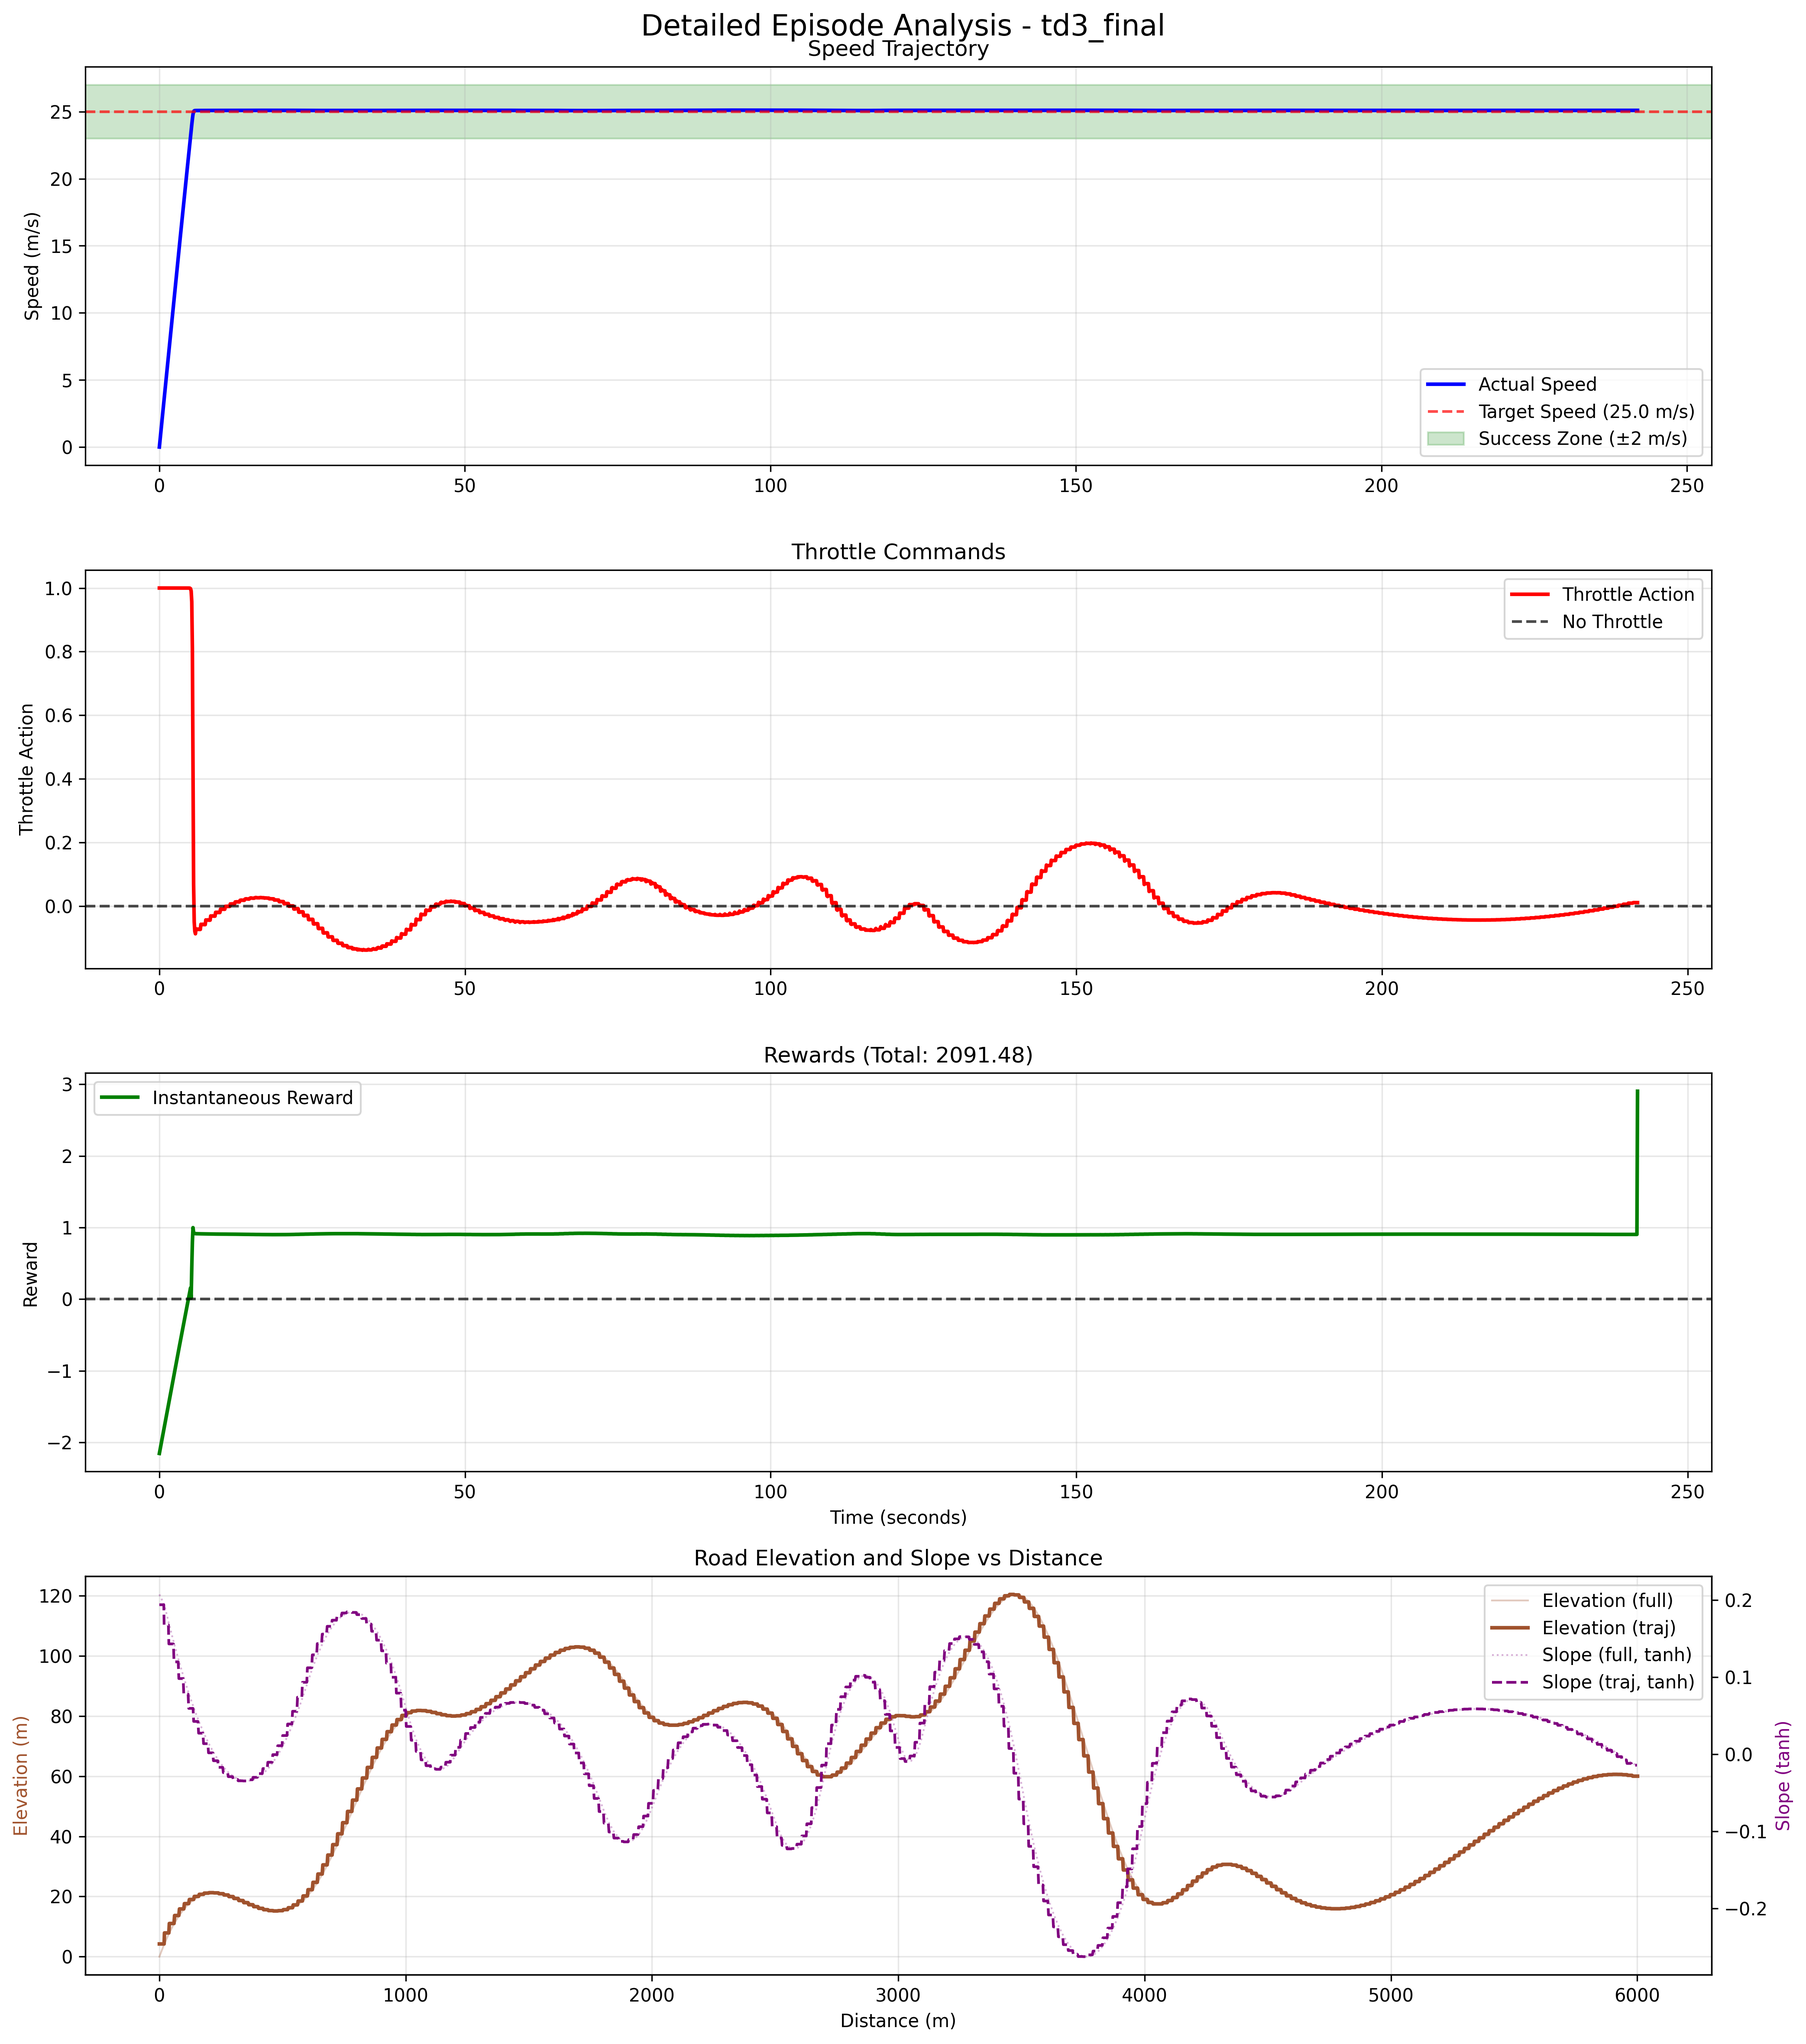
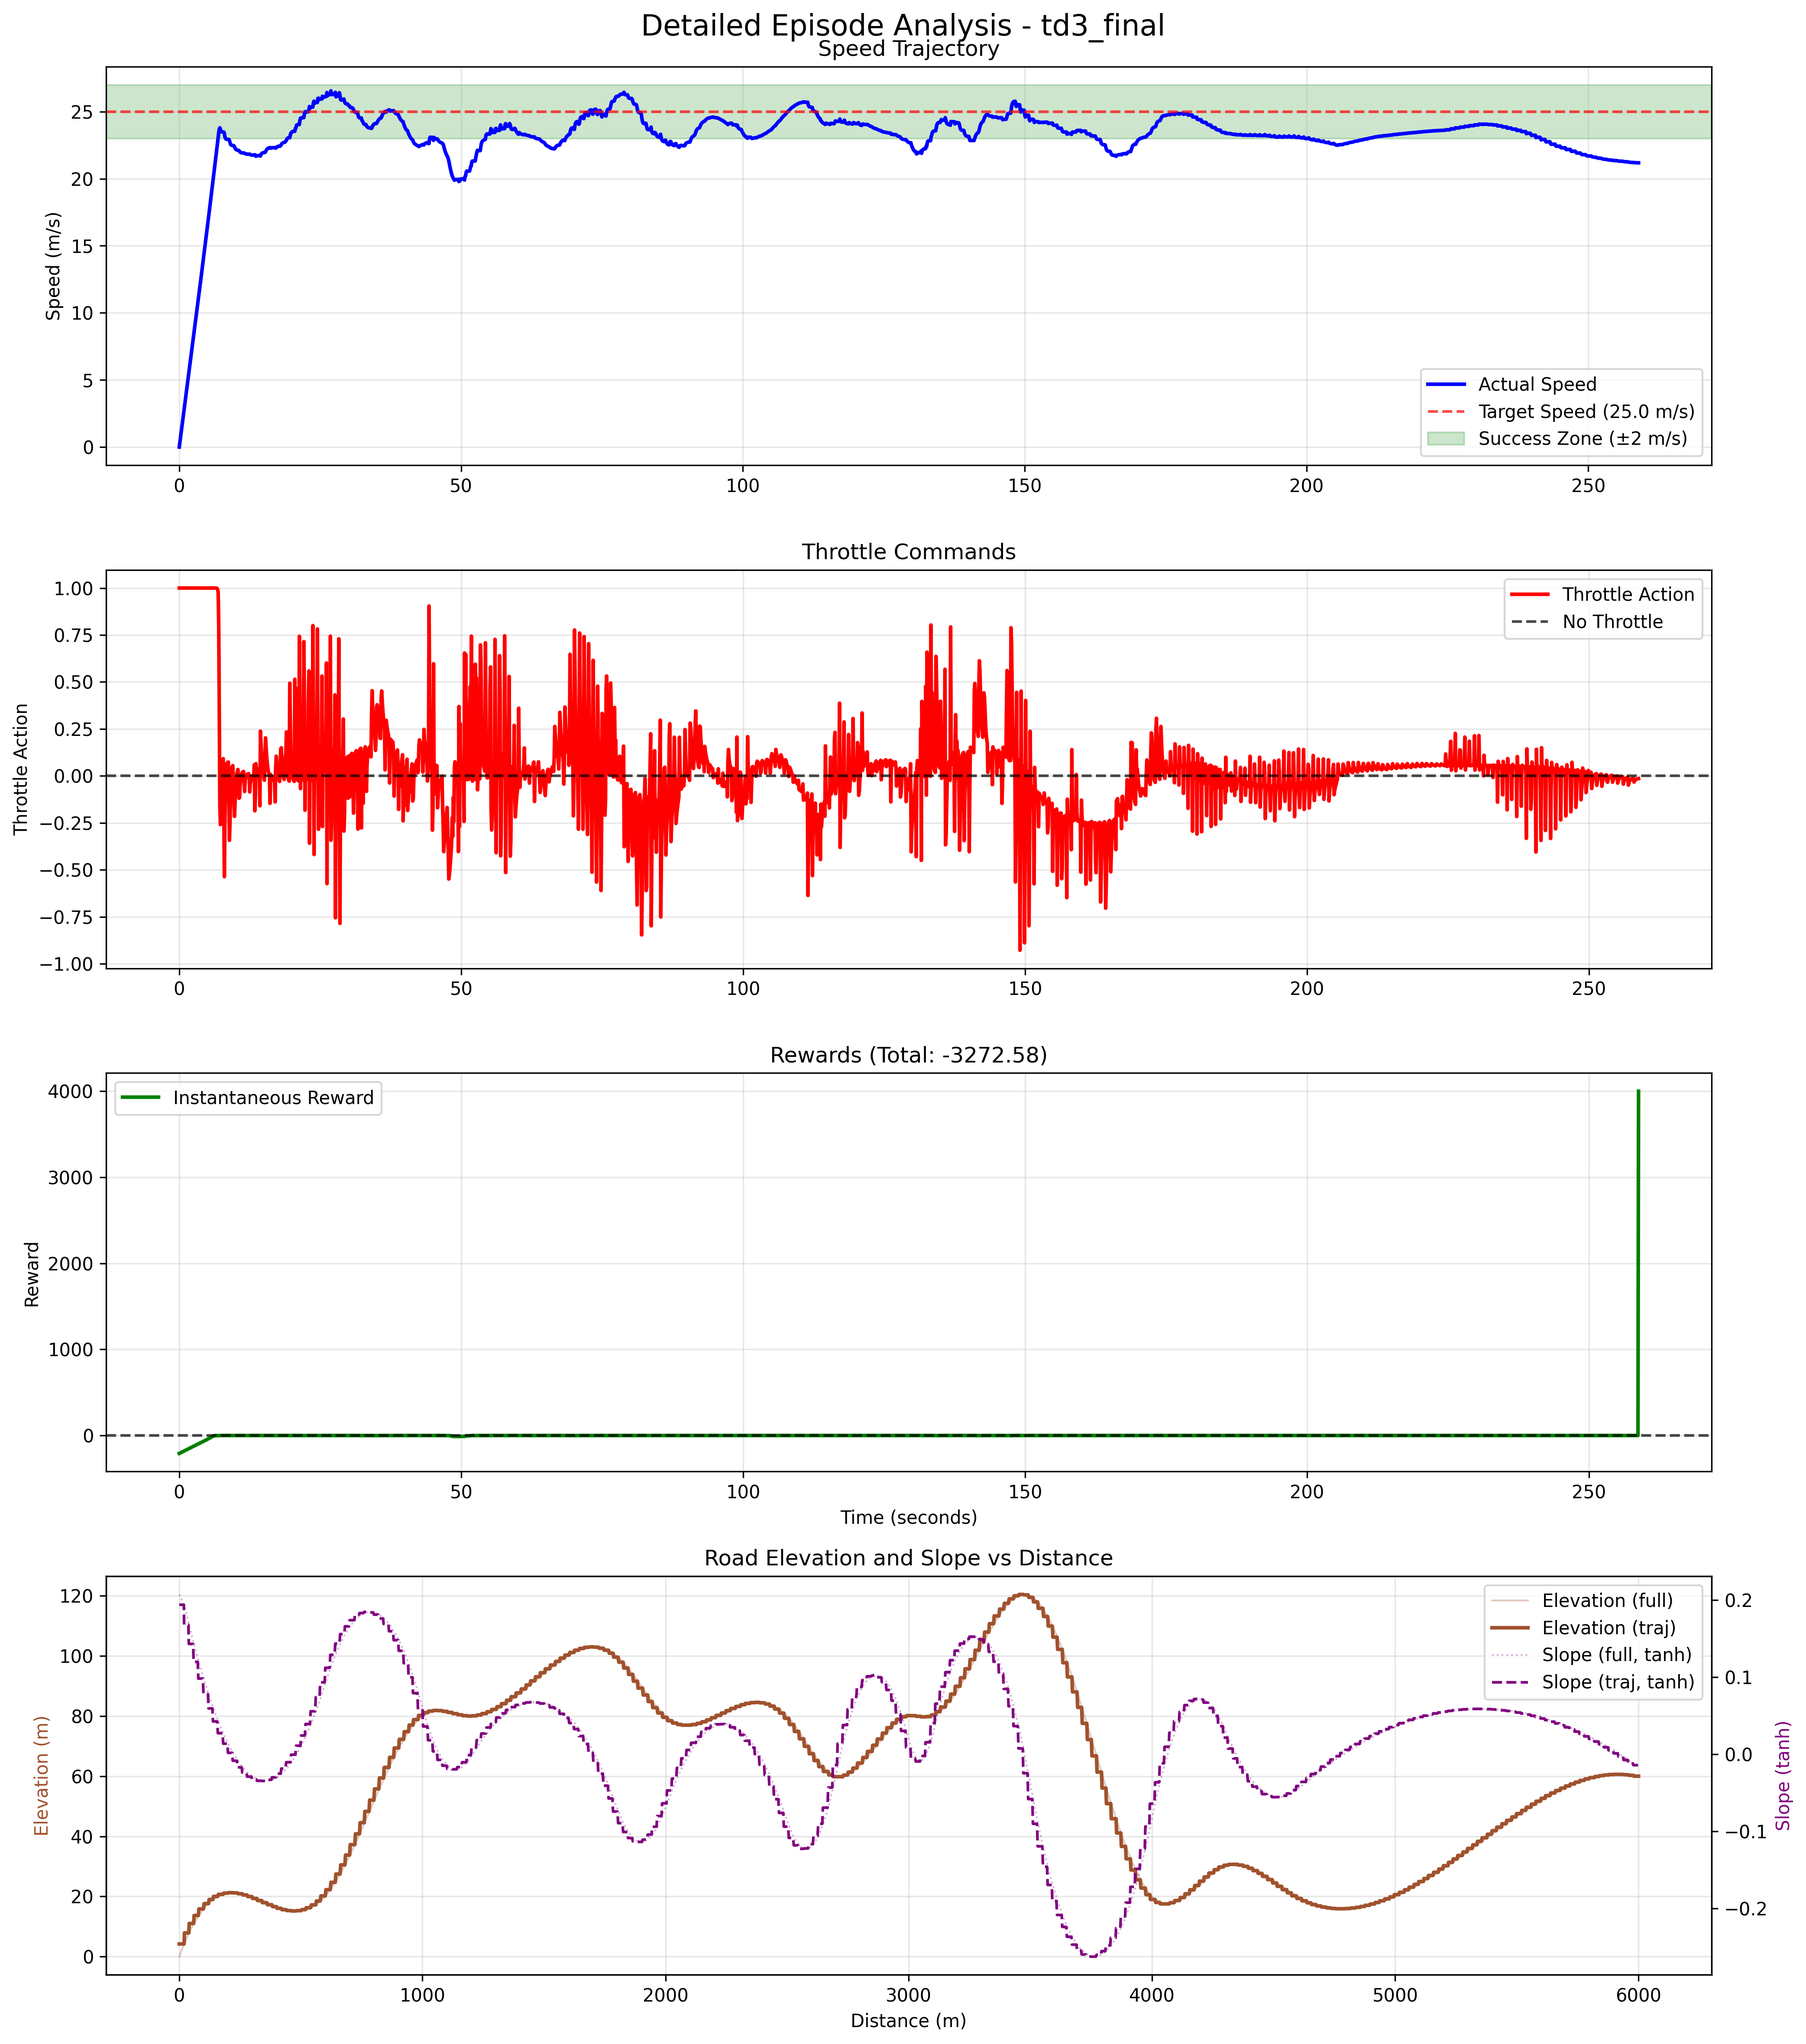
pretty good

diff --git a/car_env.py b/car_env.py
@@ -55,10 +55,16 @@ class CarThrottleEnv(gym.Env):
 
         # Physics/consumption coefficients (simplified)
         self.throttle_accel_coeff = 4.0  # throttle [-1,1] -> accel contribution [-4,4] m/s^2
-        self.slope_accel_scale = 3.0     # slope effect on accel via tanh slope in [-1,1] -> [-3,3]
+        self.slope_accel_scale = 3.8     # slope effect on accel via tanh slope in [-1,1] -> [-3,3]
         self.fuel_rate_base = 0.0
         self.fuel_rate_throttle = 0.015  # fuel per unit positive throttle
         self.fuel_rate_uphill = 0.010    # extra fuel when uphill and throttling
+
+        # Reward shaping weights: prioritize fuel, allow speed flexibility within a margin
+        self.fuel_reward_scale = 1000.0  # scales per-step fuel to comparable magnitude
+        self.speed_margin = 4.0          # you can go up to 15 km/h without consequences haha
+        self.speed_penalty_weight = 10  # penalty per m/s outside margin (small)
+        self.finish_bonus = 4000.0        # encourage finishing the route
 
     def _index_at_s(self, s_m):
         s_clamped = np.clip(s_m, 0.0, self.initial_route_distance)
@@ -95,19 +101,25 @@ class CarThrottleEnv(gym.Env):
 
         # Road-induced accel from current slope
         idx = self._index_at_s(self.s)
-        slope_tanh = self.road_slope[idx]  # [-1,1]
-        external_acc = slope_tanh * self.slope_accel_scale  # [-3,3]
+        slope_tanh = self.road_slope[idx]  # [-1,1], positive = uphill, negative = downhill
+        # Uphill should reduce acceleration; downhill should increase it -> flip sign
+        external_acc = -slope_tanh * self.slope_accel_scale  # [-3,3]
 
-        # Vehicle acceleration
-        accel = throttle * self.throttle_accel_coeff + external_acc  # approx accel range ~[-7, 7]
+        # Vehicle acceleration: engine/brake contribution plus gravity along slope
+        accel = throttle * self.throttle_accel_coeff + external_acc  # approx accel range [-7.8, 7.8]
 
         # Fuel usage (incremental)
         # Only positive throttle burns fuel; more uphill (positive slope_tanh) burns extra
-        pos_throttle = max(0.0, throttle)
+        pos_throttle = max(0.0, throttle) # dont burn fuel when braking
         fuel_rate = self.fuel_rate_base \
                     + self.fuel_rate_throttle * pos_throttle \
                     + self.fuel_rate_uphill * pos_throttle * max(0.0, slope_tanh)
         # fuel_rate = 0.015 * throttle + 0.01 * slope_tanh * throttle
+        # up hill
+        # fuel_rate = throttle ( 0.015 + 0.01 * slope_tanh)
+        # down hill
+        # fuel_rate = throttle ( 0.015 )
+        # fuel_rate  [+- 0.315]
         fuel_used = fuel_rate * self.dt
         self.fuel_usage += fuel_used
 
@@ -120,27 +132,26 @@ class CarThrottleEnv(gym.Env):
         self.s += distance_covered
         self.route_distance = max(0.0, self.initial_route_distance - self.s)
 
-        # Reward: negative fuel used per step + speed-tracking shaping
+        # Reward: strongly penalize fuel, lightly penalize speed only outside a margin
         speed_error = abs(self.speed - self.target_speed)
         reward = 0.0
-        reward -= fuel_used  # fuel minimization (dense, equals terminal total when summed)
-        # Shaping for speed tracking
+        reward -= self.fuel_reward_scale * fuel_used
+        excess = max(0.0, speed_error - self.speed_margin)
+        # 2 levels of excess
         if speed_error < 1.0: # [24,26]
-            reward += 1.0 - speed_error           # [0,1]
+            reward -= self.speed_penalty_weight * excess * 0.1 
         elif speed_error < 3.0: # [22,28]
-            reward += 0.3 - 0.1 * speed_error     # [0,0.3]
+            reward -= self.speed_penalty_weight * excess * 0.4
         else: # [0,22] [28,40]
-            reward -= 0.1 * (speed_error - 3.0)   # [-2.2,0]
+            reward -= self.speed_penalty_weight * excess 
 
         # Termination
         terminated = False
         truncated = False
         if self.route_distance <= 0.0:
             terminated = True
-            # Bonus if finish near target speed
-            if speed_error < 2.0:
-                reward += 2.0
-            # No extra terminal fuel term needed because we already summed -fuel_used each step
+            # Bonus for finishing the route
+            reward += self.finish_bonus
         elif self.step_count >= self.max_steps:
             truncated = True
 

diff --git a/train.py b/train.py
@@ -43,7 +43,7 @@ def main():
     max_action = float(env.action_space.high[0])
     
     # Training parameters
-    max_episodes = 400
+    max_episodes = 55
     # Allow enough steps to finish the ~6km route at dt=0.1s
     # At 25 m/s this is ~2400 steps; give extra margin
     max_timesteps = 3000
